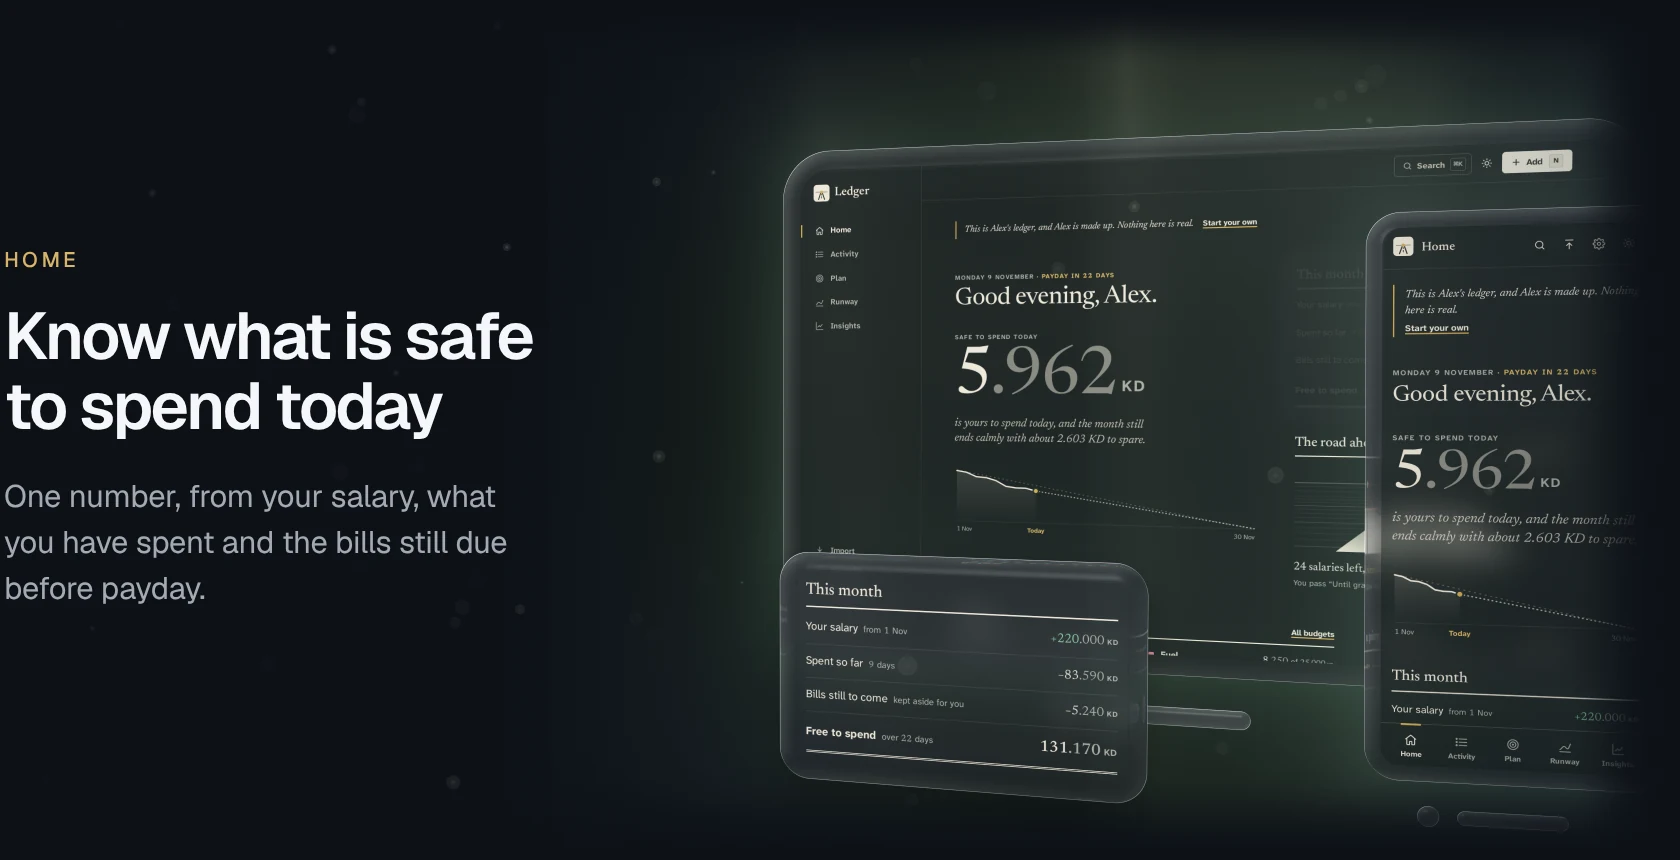
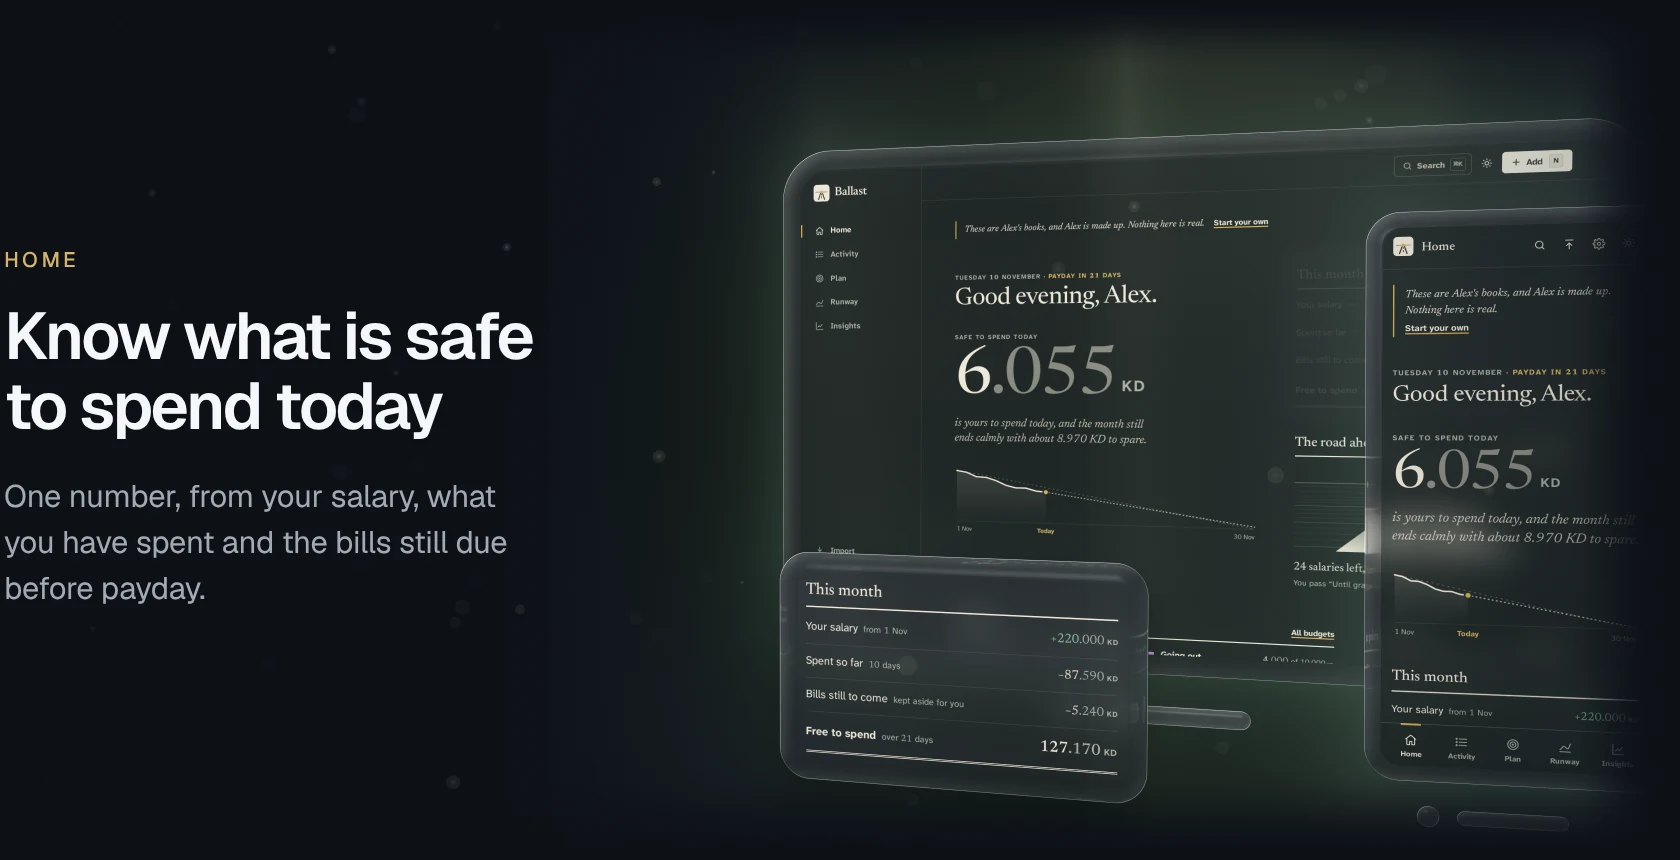
README images re-rendered as Ballast; the share image follows
Every README image is captured again from the live app at /ballast/; the
numbers band counts 486 tests (374 unit, 112 end-to-end). public/og.png,
the picture a shared link shows, is now the current social card instead of
the first one.

Claude-Session: https://claude.ai/code/session_01HQfW8pkzqmESaZpf3GNiQv

diff --git a/docs/readme/src/layouts.js b/docs/readme/src/layouts.js
@@ -362,7 +362,7 @@ const HERO = (ph) => ({
 // ---------- the numbers band ----------
 const FACTS = [
   ['0', 'accounts, servers or trackers'],
-  ['483', 'tests on every change'],
+  ['486', 'tests on every change'],
   ['3', 'decimals in a dinar, kept exact'],
   ['24', 'currencies, in whole-number maths'],
 ];

diff --git a/README.md b/README.md
@@ -4,7 +4,7 @@ Living on savings is a guessing game: a banking app shows a balance, a budgeting
 
 **[Open the app](https://gallowforge.github.io/ballast/)** &nbsp;·&nbsp; [Try the demo](https://gallowforge.github.io/ballast/home/?demo=1) &nbsp;·&nbsp; [Quickstart](#quickstart) &nbsp;·&nbsp; [How it works](#how-it-works) &nbsp;·&nbsp; [Releases](https://github.com/gallowforge/ballast/releases)
 
-<a href="https://github.com/gallowforge/ballast/actions/workflows/ci.yml#gh-dark-mode-only"><picture><source media="(max-width: 767px)" srcset="docs/readme/numbers-dark-phone.webp 2.835x"><source srcset="docs/readme/numbers-dark.webp 2x"><img src="docs/readme/numbers-dark.webp" width="840" alt="0 accounts, servers or trackers. 483 tests on every change. 3 decimals in a dinar, kept exact. 24 currencies, in whole-number maths."></picture></a><a href="https://github.com/gallowforge/ballast/actions/workflows/ci.yml#gh-light-mode-only"><picture><source media="(max-width: 767px)" srcset="docs/readme/numbers-light-phone.webp 2.835x"><source srcset="docs/readme/numbers-light.webp 2x"><img src="docs/readme/numbers-light.webp" width="840" alt="0 accounts, servers or trackers. 483 tests on every change. 3 decimals in a dinar, kept exact. 24 currencies, in whole-number maths."></picture></a>
+<a href="https://github.com/gallowforge/ballast/actions/workflows/ci.yml#gh-dark-mode-only"><picture><source media="(max-width: 767px)" srcset="docs/readme/numbers-dark-phone.webp 2.835x"><source srcset="docs/readme/numbers-dark.webp 2x"><img src="docs/readme/numbers-dark.webp" width="840" alt="0 accounts, servers or trackers. 486 tests on every change. 3 decimals in a dinar, kept exact. 24 currencies, in whole-number maths."></picture></a><a href="https://github.com/gallowforge/ballast/actions/workflows/ci.yml#gh-light-mode-only"><picture><source media="(max-width: 767px)" srcset="docs/readme/numbers-light-phone.webp 2.835x"><source srcset="docs/readme/numbers-light.webp 2x"><img src="docs/readme/numbers-light.webp" width="840" alt="0 accounts, servers or trackers. 486 tests on every change. 3 decimals in a dinar, kept exact. 24 currencies, in whole-number maths."></picture></a>
 
 <br>
 
@@ -182,7 +182,7 @@ The full identity is in [docs/DESIGN.md](docs/DESIGN.md).
 
 | Check                 | What it covers                                                                                                                                                                                                                                                                                                                                                                                        |
 | --------------------- | ----------------------------------------------------------------------------------------------------------------------------------------------------------------------------------------------------------------------------------------------------------------------------------------------------------------------------------------------------------------------------------------------------- |
-| 371 unit tests        | Money and exchange rates, dates and money months, recurring items, safe-to-spend and pace, budgets with rollover, runway and target salary, insights, CSV, PDF layout, statement parsing and reconciliation, duplicates, categories, the store, backups and demo data. Coverage above 90% of lines.                                                                                                   |
+| 374 unit tests        | Money and exchange rates, dates and money months, recurring items, safe-to-spend and pace, budgets with rollover, runway and target salary, insights, CSV, PDF layout, statement parsing and reconciliation, duplicates, categories, the store, backups and demo data. Coverage above 90% of lines.                                                                                                   |
 | 112 end-to-end tests  | 57 scenarios on a desktop browser and 55 on a phone (the two keyboard shortcuts are desktop only): first run, moving between pages, quick add, edit and undo, transfers, search, the launcher, runway what-if, budgets, PDF, CSV and password-protected imports, re-import, undo import, backup and restore, CSV export, offline use, and an axe accessibility sweep of every page in light and dark. |
 | Lighthouse CI         | Ten pages on desktop and four on a simulated phone, asserted at 95 and 90. Measured locally: 100 on desktop across performance, accessibility, best practices and SEO; on a phone, 92 to 96 for performance and 100 for the rest.                                                                                                                                                                     |
 | JavaScript budget     | Every page's scripts followed through their imports and summed gzipped: under 12 KB for the site pages, under 65 KB for the app (the largest is 58 KB). The PDF reader loads only when a PDF is chosen.                                                                                                                                                                                               |
